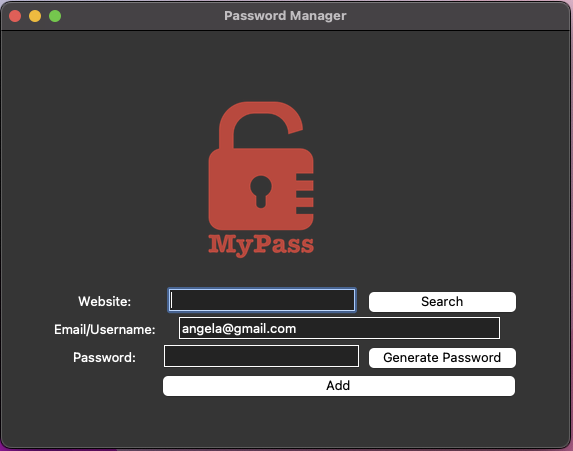
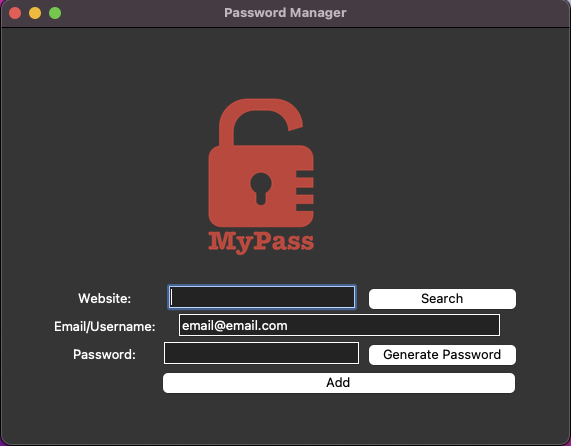
Fixed some bugs

diff --git a/Password_generator_application(Day 29)/main.py b/Password_generator_application(Day 29)/main.py
@@ -1,85 +1,116 @@
+import json.scanner
 from tkinter import *
 from tkinter import messagebox
-from random import choice, shuffle, randint
-import pyperclip
+from random import choice, randint, shuffle
+import json
 
- 
+
 # ---------------------------- PASSWORD GENERATOR ------------------------------- #
 
+#Password Generator Project
 def generate_password():
-  letters = ['a', 'b', 'c', 'd', 'e', 'f', 'g', 'h', 'i', 'j', 'k', 'l', 'm', 'n', 'o', 'p', 'q', 'r', 's', 't', 'u', 'v', 'w', 'x', 'y', 'z', 'A', 'B', 'C', 'D', 'E', 'F', 'G', 'H', 'I', 'J', 'K', 'L', 'M', 'N', 'O', 'P', 'Q', 'R', 'S', 'T', 'U', 'V', 'W', 'X', 'Y', 'Z']
-  numbers = ['0', '1', '2', '3', '4', '5', '6', '7', '8', '9']
-  symbols = ['!', '#', '$', '%', '&', '(', ')', '*', '+']
+    letters = ['a', 'b', 'c', 'd', 'e', 'f', 'g', 'h', 'i', 'j', 'k', 'l', 'm', 'n', 'o', 'p', 'q', 'r', 's', 't', 'u', 'v', 'w', 'x', 'y', 'z', 'A', 'B', 'C', 'D', 'E', 'F', 'G', 'H', 'I', 'J', 'K', 'L', 'M', 'N', 'O', 'P', 'Q', 'R', 'S', 'T', 'U', 'V', 'W', 'X', 'Y', 'Z']
+    numbers = ['0', '1', '2', '3', '4', '5', '6', '7', '8', '9']
+    symbols = ['!', '#', '$', '%', '&', '(', ')', '*', '+']
 
-  password_letters = [choice(letters) for _ in range(randint(8, 10))]
-  password_symbols = [choice(symbols) for _ in range(randint(2, 4))]
-  password_numbers = [choice(numbers) for _ in range(randint(2, 4))]
+    password_letters = [choice(letters) for _ in range(randint(8, 10))]
+    password_symbols = [choice(symbols) for _ in range(randint(2, 4))]
+    password_numbers = [choice(numbers) for _ in range(randint(2, 4))]
 
-  password_list = password_letters + password_symbols + password_numbers
+    password_list = password_letters + password_symbols + password_numbers
+    shuffle(password_list)
 
-  shuffle(password_list)
+    password = "".join(password_list)
+    password_entry.insert(0, password)
 
-  password = "".join(password_list)
-  pyperclip.copy(password)
 
-  password_entry.insert(0, password)
+# ---------------------------- Search for data ------------------------------------#
+
+def search():
+    website = website_entry.get()
+    try:
+       with open("data.json", "r") as data_file:
+            data = json.load(data_file)
+    except:
+        messagebox.showwarning(title="Error", message="You haven't saved any passwords")
+    else:
+        try:
+            pulled_data = data[website]
+        except KeyError:
+            messagebox.showerror(title="Error", message = f"No details for {website} exists.")
+        else:
+            messagebox.showinfo(title=website, message = f"Email : {data[website]["email"]}\n Password: {data[website]["password"]}")
+
+
+
 
 # ---------------------------- SAVE PASSWORD ------------------------------- #
+def save():
 
-def save_info():
     website = website_entry.get()
-    username = user_entry.get()
+    email = email_entry.get()
     password = password_entry.get()
+    new_data = {
+        website: {
+            "email": email,
+            "password": password,
+        }
+    }
 
-    if len(website) or len(password) == 0:
-        messagebox.showwarning(title="OOPS!", message="You can't leave any fields empty.")
+    if len(website) == 0 or len(password) == 0:
+        messagebox.showinfo(title="Oops", message="Please make sure you haven't left any fields empty.")
     else:
-        if messagebox.askokcancel(title=website, message=f"These are the details entered: \nEmail: {username} \nPassword: {password} \nIs it okay to save?"):
-            with open("data.txt", "a") as data:
-                data.write(f"{website} | {username} | {password}\n")
-                website_entry.delete(0, END)
-                password_entry.delete(0, END)
+        try:
+            with open("data.json", "r") as data_file:
+                data = json.load(data_file)
+        except FileNotFoundError:
+            with open("data.json", "w") as data_file:
+                json.dump(new_data, data_file, indent = 4)      
+        else:
+            data.update(new_data)
+            with open("data.json", "w") as data_file:
+                json.dump(data, data_file, indent = 4)
+        finally:
+            website_entry.delete(0, END)
+            password_entry.delete(0, END)
 
 
 # ---------------------------- UI SETUP ------------------------------- #
 
 window = Tk()
 window.title("Password Manager")
-window.config(padx = 50, pady = 50)
+window.config(padx=50, pady=50)
 
-canvas = Canvas(width = 200, height=200, highlightthickness=0)
+canvas = Canvas(height=200, width=200)
 logo_img = PhotoImage(file="logo.png")
 canvas.create_image(100, 100, image=logo_img)
-canvas.grid(column=1, row=0)
+canvas.grid(row=0, column=1)
 
-website_label = Label(text = "Website:")
-website_label.grid(column=0, row=1)
-
-website_entry = Entry(width=35)
-website_entry.grid(column=1, row=1, columnspan=2)
-website_entry.focus()
-
-user_label = Label(text="Email/Username:")
-user_label.grid(column=0, row=2)
-
-user_entry = Entry(width=35)
-user_entry.grid(column=1, row=2, columnspan=2)
-user_entry.insert(0, "email@email.com")
-
+#Labels
+website_label = Label(text="Website:")
+website_label.grid(row=1, column=0)
+email_label = Label(text="Email/Username:")
+email_label.grid(row=2, column=0)
 password_label = Label(text="Password:")
-password_label.grid(column=0, row=3)
+password_label.grid(row=3, column=0)
 
-password_entry = Entry(width = 21)
-password_entry.grid(column=1, row=3)
+#Entries
+website_entry = Entry()
+website_entry.grid(row=1, column=1)
+website_entry.focus()
+email_entry = Entry(width=35)
+email_entry.grid(row=2, column=1, columnspan=2)
+email_entry.insert(0, "email@email.com")
+password_entry = Entry(width=21)
+password_entry.grid(row=3, column=1)
 
-generate_button = Button(text="Generate", command=generate_password)
-generate_button.grid(column=2, row=3, sticky="ew")
-
-add_button = Button(text="Add", width=36, command=save_info)
-add_button.grid(column=1, row=4, columnspan=2)
-
+# Buttons
+generate_password_button = Button(text="Generate Password", command=generate_password)
+generate_password_button.grid(row=3, column=2)
+add_button = Button(text="Add", width=36, command=save)
+add_button.grid(row=4, column=1, columnspan=2)
+search_button = Button(text="Search", command=search)
+search_button.grid(column=2, row=1, sticky="ew")
 
 
 window.mainloop()
-
-
